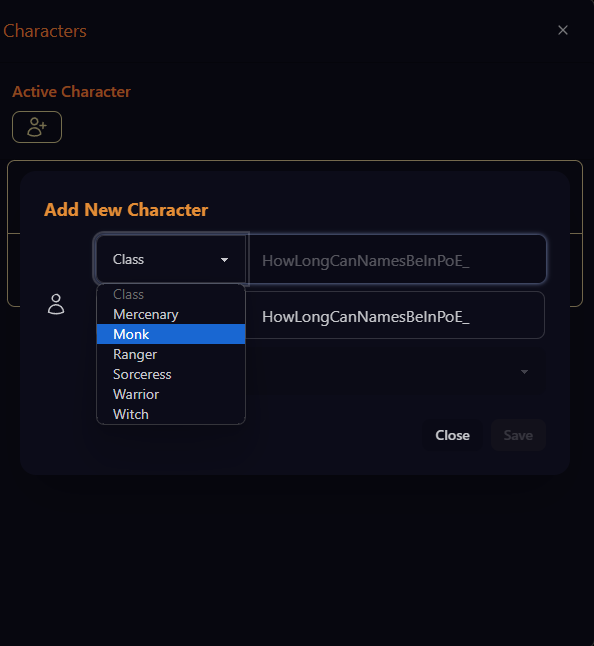
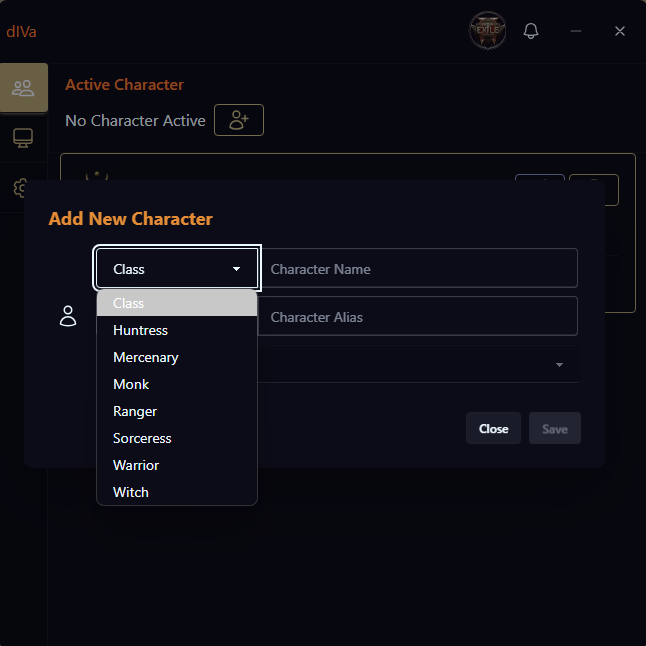
dIVa v2

diff --git a/dIVa/index.html b/dIVa/index.html
@@ -37,142 +37,34 @@
       </script>
       <div id="patch-2-0-0" class="card bg-neutral shadow-lg compact my-8 section-offset">
         <div class="card-body">
-          <h2 class="card-title text-accent text-xl sm:text-2xl">(Upcoming) dIVa v2</h2>
+          <h2 class="card-title text-accent text-xl sm:text-2xl">v2.0.0 - dIVa v2</h2>
           <div>
             <h3 class="text-secondary text-lg sm:text-xl font-semibold">Major UI Overhaul</h3>
             <ul class="list-disc list-inside ml-4 p-4 pt-2">
-              <li>Complete GUI redesign with unified single-window interface and Sidebar navigation</li>
-              <li>
-                Settings toggle "Open Features Window" option allows specific features to be opened in a separate window. Currently available for
-                Diablo IV Dungeons & Sigils
-              </li>
-              <li>Game Selector in top bar enables offline viewing and switching between different supported games</li>
+              <li>Complete GUI redesign with unified single-window interface and sidebar navigation</li>
+              <li>Settings toggle allows specific Features to open in a separate window (Diablo IV Dungeons & Sigils)</li>
+              <li>Game Selector in top bar enables offline viewing and switching between supported games</li>
             </ul>
-            <h3 class="text-secondary text-lg sm:text-xl font-semibold">Path of Exile 2 Feature</h3>
+            <h3 class="text-secondary text-lg sm:text-xl font-semibold">Path of Exile 2</h3>
             <ul class="list-disc list-inside ml-4 p-4 pt-2">
-              <li>
-                New <a href="instance-alert.html" class="text-accent underline">Instance Alert</a> feature warns when town instances are at risk of
-                expiring (8-minute threshold)
-              </li>
+              <li>New Instance Alert feature warns when town instances are at risk of expiring</li>
             </ul>
           </div>
         </div>
       </div>
-      <div id="patch-1-7-5" class="card bg-neutral shadow-lg compact my-8 section-offset">
+      <div id="v1-changelog" class="card bg-neutral shadow-lg compact my-8 section-offset">
         <div class="card-body">
-          <h2 class="card-title text-accent text-xl sm:text-2xl">v1.7.5 - Path of Exile 2 Dawn of the Hunt Update</h2>
-          <div>
-            <h3 class="text-secondary text-lg sm:text-xl font-semibold">Huntress Class</h3>
-            <ul class="list-disc list-inside ml-4 p-4 pt-2">
-              <li>The Huntress class is now supported in dIVa</li>
-            </ul>
-            <h3 class="text-secondary text-lg sm:text-xl font-semibold">Discord</h3>
-            <ul class="list-disc list-inside ml-4 p-4 pt-2">
-              <li>
-                A <a href="https://discord.gg/Kp4dNHbmcJ" class="text-accent underline">Discord</a> server is now available for dIVa users to discuss
-                and share their experiences with the app.
-              </li>
-              <li>Please feel free to report any issues, or leave suggestions!</li>
-            </ul>
-          </div>
-        </div>
-      </div>
-      <div id="patch-1-5-0" class="card bg-neutral shadow-lg compact my-8 section-offset">
-        <div class="card-body">
-          <h2 class="card-title text-accent text-xl sm:text-2xl">v1.5.0 - 한국어 & Deutsch</h2>
-          <div>
-            <h3 class="text-secondary text-lg sm:text-xl font-semibold">Expanded Language Support</h3>
-            <ul class="list-disc list-inside ml-4 p-4 pt-2">
-              <li>
-                Ich freue mich, mitteilen zu können, dass dIVa die Marke von 1.000 täglichen Nutzern überschritten hat! Als Zeichen der Wertschätzung
-                für diese unglaubliche Community erweitere ich die Sprachunterstützung und nehme Deutsch auf – eine der aktivsten Nutzergruppen in der
-                App. Vielen Dank, dass ihr Teil dieser Reise seid!
-              </li>
-              <li>
-                dIVa가 하루 1,000명 이상의 사용자를 돌파했다는 소식을 전하게 되어 정말 기쁩니다! 이 놀라운 커뮤니티에 대한 감사의 표시로, 앱에서 가장
-                활발한 사용자 그룹 중 하나인 한국어를 새롭게 지원하게 되었습니다. 이 여정에 함께해 주셔서 감사합니다!
-              </li>
-            </ul>
-          </div>
-        </div>
-      </div>
-      <div id="patch-1-4-0" class="card bg-neutral shadow-lg compact my-8 section-offset">
-        <div class="card-body">
-          <h2 class="card-title text-accent text-xl sm:text-2xl">v1.4.0 - Diablo IV: Season of Witchcraft</h2>
-          <div>
-            <h3 class="text-secondary text-lg sm:text-xl font-semibold">Season 7 Update</h3>
-            <ul class="list-disc list-inside ml-4 p-4 pt-2">
-              <li><strong>Nightmare Dungeons:</strong> 86 new Dungeons have been added to the Tier List.</li>
-            </ul>
-          </div>
-        </div>
-      </div>
-      <div id="patch-1-3-0" class="card bg-neutral shadow-lg compact my-8 section-offset">
-        <div class="card-body">
-          <h2 class="card-title text-accent text-xl sm:text-2xl">v1.3.6 - Path of Exile 2 & Themes</h2>
-          <p class="mb-2">Experience dIVa in a whole new light with our latest update!</p>
-          <div>
-            <h3 class="text-secondary text-lg sm:text-xl font-semibold">Support for Path of Exile 2 (Early Access)</h3>
-            <ul class="list-disc list-inside ml-4 p-4 pt-2">
-              <li><strong>Character Detection:</strong> Introducing a specialized class detection system for Path of Exile 2 characters.</li>
-              <li>
-                When you log in, dIVa will prompt you to select your character's class, and will remember it for future sessions, ensuring accurate
-                character tracking and analytics while Overwolf game events are in development.
-              </li>
-              <li><strong>Experience Meter Enabled:</strong> Experience Game Event is now supported in Overwolf</li>
-            </ul>
-          </div>
-          <div>
-            <h3 class="text-secondary text-lg sm:text-xl font-semibold">Theme System</h3>
-            <ul class="list-disc list-inside ml-4 p-4 pt-2">
-              <li>
-                <strong>Game-Specific Themes:</strong> Each supported game now has its own unique theme, bringing the perfect ambiance to your
-                analytics:
-                <ul class="list-disc list-inside ml-4">
-                  <li><strong>dIVa:</strong> The default theme, fiery orange and red darkness</li>
-                  <li><strong>Vessel of Hatred:</strong> Embrace the new jungle green aesthetics with our Diablo IV expansion theme</li>
-                  <li><strong>Path of Exile:</strong> Experience the gritty midnight blue atmosphere of Wraeclast</li>
-                </ul>
-              </li>
-              <li>
-                <strong>Dynamic Theme Switching:</strong> Themes automatically adjust based on your active game, or manually select your preferred
-                theme in <a href="settings.html#themes" class="text-accent underline">Settings</a>
-              </li>
-              <li><strong>Enhanced Visuals:</strong> Revamped UI elements, icons, and color schemes to match each game's unique aesthetic</li>
-            </ul>
-          </div>
-          <div>
-            <h3 class="text-secondary text-lg sm:text-xl font-semibold">Enhancements</h3>
-            <ul class="list-disc list-inside ml-4 p-4 pt-2">
-              <li><strong>Draggable Indicator on Overlays</strong></li>
-            </ul>
-          </div>
-        </div>
-      </div>
-      <div id="patch-1-0-0" class="card bg-neutral shadow-lg compact my-8 section-offset">
-        <div class="card-body">
-          <h2 class="card-title text-accent text-xl sm:text-2xl">v1.0.0 - Vessel of Hatred</h2>
-          <p class="mb-2">Explore the exciting new features in <strong>dIVa v1.0.0</strong>!</p>
-          <div>
-            <h3 class="text-secondary text-lg sm:text-xl font-semibold">Zigil Incorporation</h3>
-            <ul class="list-disc list-inside ml-4 p-4 pt-2">
-              <li>
-                <strong>Dungeons Tier List:</strong> A detailed tier list of Nightmare Dungeons, cataloged by Experience and Glyph. Helps players
-                prioritize dungeons based on experience gain and glyph upgrading potential.
-              </li>
-              <li>
-                <strong>Sigils (Inventory):</strong> A comprehensive inventory system for organizing, tracking, and optimizing your sigil collection.
-                Includes Stash, 'Best' and List views for efficient Sigil management.
-                <ul class="list-disc list-inside ml-4">
-                  <li><strong>Overlay:</strong> New in-game Overlay will show you the Best Sigil to Consume.</li>
-                </ul>
-              </li>
-              <li>
-                <strong>Notification Viewer:</strong> A centralized hub for managing all dIVa notifications, featuring search functionality,
-                individual and bulk deletion options, categorization by type, and timestamp display.
-              </li>
-            </ul>
-          </div>
+          <h2 class="card-title text-accent text-xl sm:text-2xl">v1 Changelog</h2>
+          <ul class="list-disc list-inside ml-4 p-4 pt-2">
+            <li>Game-specific Themes and dynamic Theme switching</li>
+            <li>Path of Exile 2: Class detection system, experience meter, and analytics</li>
+            <li>Discord server for user discussion and feedback</li>
+            <li>Expanded language support</li>
+            <li>Draggable indicator on overlays</li>
+            <li>Nightmare Dungeons Tier List and Sigil inventory systems</li>
+            <li>Overlay for best Sigil to consume</li>
+            <li>Notification viewer with search, categorization, and bulk actions</li>
+          </ul>
         </div>
       </div>
     </div>

diff --git a/dIVa/dungeons.html b/dIVa/dungeons.html
@@ -37,8 +37,8 @@
             <h3 class="text-secondary text-lg sm:text-xl font-semibold">Functionality</h3>
             <ul class="list-disc list-inside ml-4 p-4">
               <li><strong>Search:</strong> Quickly find specific dungeons using the search bar.</li>
-              <li><strong>Tier Type Filter:</strong> Sort dungeons by their assigned tier type (e.g. Experience, Glyph).</li>
-              <li><strong>Season Filter:</strong> View dungeons specific to the current season (e.g., Season 6 - Hatred).</li>
+              <li><strong>Tier Type Filter:</strong> Sort dungeons by their assigned tier type (e.g. Experience).</li>
+              <li><strong>Season Filter:</strong> View dungeons specific to the current season (e.g., 8 - Belial's Return).</li>
               <li><strong>Dungeon Icons:</strong> Visual representations of each dungeon for easy identification.</li>
               <li><strong>Dungeon Names:</strong> Clear labeling of each dungeon within its respective tier.</li>
             </ul>
@@ -48,13 +48,12 @@
             <p class="mb-2">Dungeons are categorized into the following tier types:</p>
             <ul class="list-disc list-inside ml-4 p-2 space-y-1">
               <li><strong>Experience:</strong> Sort Dungeons by ones that offer the most experience.</li>
-              <li><strong>Glyph:</strong> Sort Dungeons by ones that are the most efficient for upgrading glyphs.</li>
             </ul>
           </div>
           <div class="mt-4">
             <h3 class="text-secondary text-lg sm:text-xl font-semibold">Using the Dungeons Feature</h3>
             <ol class="list-decimal list-inside ml-4 p-2 space-y-2">
-              <li>Open the Dungeons window in dIVa.</li>
+              <li>Open the Dungeons window in dIVa by clicking the "Skull" icon in the sidebar.</li>
               <li>Use the search bar to find specific dungeons or browse the tier list.</li>
               <li>Click on the "Tier" dropdown to filter dungeons by their assigned tier type.</li>
               <li>Use the "Season" dropdown to view dungeons relevant to the current season.</li>

diff --git a/dIVa/sigils.html b/dIVa/sigils.html
@@ -74,10 +74,7 @@
             <img src="./images/sigils-best.png" alt="Sigils Best View" class="mb-4 mx-auto rounded-lg" />
             <p class="mb-2">The Best view focuses on optimizing your sigil inventory, showcasing the most effective sigils in your collection.</p>
             <ul class="list-disc list-inside ml-4 p-4">
-              <li>
-                <strong>Recommended Sigils:</strong> This view will only show <strong>S-Tier</strong> or <strong>A-Tier</strong> Sigils for both
-                experience and glyph.
-              </li>
+              <li><strong>Recommended Sigils:</strong> This view will only show <strong>S-Tier</strong> or <strong>A-Tier</strong></li>
             </ul>
             <h4 class="text-secondary text-md sm:text-lg font-semibold">List View</h4>
             <img src="./images/sigils-list.png" alt="Sigils List View" class="mb-4 mx-auto rounded-lg" />
@@ -101,7 +98,7 @@
             </ul>
             <h3 class="text-secondary text-lg sm:text-xl font-semibold">Using the Sigil Views</h3>
             <ol class="list-decimal list-inside ml-4 p-2 space-y-2">
-              <li>Open the Sigils window in dIVa and select either the "Stash" or "Best" tab.</li>
+              <li>Open the Sigils window by clicking the "Key" icon in the sidebar, and selecting the "Stash" or "Best" tab.</li>
               <li>Use the search bar to find specific sigils or browse the available options.</li>
               <li>Click on the "Analyze" icon to select the Tier Type to analyze Sigils for.</li>
               <li>Use the "Season" dropdown to view sigils relevant to the current season.</li>

diff --git a/dIVa/desktop.html b/dIVa/desktop.html
@@ -60,6 +60,7 @@
           <div>
             <h3 class="text-secondary text-lg sm:text-xl font-semibold">Functionality</h3>
             <ul class="list-disc list-inside ml-4 p-4">
+              <li>Game Selector in top bar enables offline viewing and switching between supported games.</li>
               <li><strong>Gold Meter:</strong> This meter can run either in-game or as part of the desktop window.</li>
               <li>
                 <strong>Experience Meter:</strong> Similar to the Gold Meter, this meter can run either in-game or as part of the desktop window.
@@ -94,8 +95,11 @@
             Currently available in:
             <ul class="list-disc list-inside ml-4 p-4 pt-0">
               <li><strong>English:</strong> Gear up and conquer Sanctuary with dIVa!</li>
+              <li><strong>German:</strong> Bereite dich und erobere den Heiligtum mit dIVa!</li>
+              <li><strong>Korean:</strong> 준비하고 성소를 정복하세요!</li>
               <li><strong>Spanish:</strong> ¡Prepárate y conquista Santuario con dIVa!</li>
               <li><strong>Portuguese:</strong> Equipe-se e conquiste o Santuário com dIVa!</li>
+              <li><strong>French:</strong> Préparez-vous et conquérez le Sanctuaire avec dIVa!</li>
             </ul>
           </div>
         </div>

diff --git a/dIVa/class-detection.html b/dIVa/class-detection.html
@@ -45,6 +45,7 @@
                 <img src="images/characters/class-selection.png" alt="Class Selection Dialog" class="my-4 mx-auto rounded-lg" />
                 A prompt will appear asking you to select your character's class from the available options:
                 <ul class="list-disc list-inside ml-8">
+                  <li>Huntress</li>
                   <li>Mercenary</li>
                   <li>Monk</li>
                   <li>Ranger</li>

diff --git a/dIVa/settings.html b/dIVa/settings.html
@@ -74,6 +74,7 @@
                     <li>한국어</li>
                     <li>Español</li>
                     <li>Português</li>
+                    <li>Français</li>
                   </ul>
                 </p>
               </li>

diff --git a/README.md b/README.md
@@ -1,46 +1,50 @@
 ## Tutorials for MYLA Products
 
-# dIVa 
+# dIVa
 
 A dynamic interface with visual analytics, dIVa elevates your aRPG journey with real-time statistics and intelligent overlays, Speed Leveling, and more! Supports PoE2, D4 and D2R
 
 [Tutorial](https://myla-llc.github.io/tutorials/dIVa/index.html)
 
-*Designed for true enthusiasts, **dIVa** is your ultimate aRPG analytics companion. Discover the most resource-efficient gameplay strategies across multiple games with in-game overlays that provide real-time updates on Gold, Experience, and Speed Leveling. Maximize your efficiency in every gaming session with **dIVa**!*
+_Designed for true enthusiasts, **dIVa** is your ultimate aRPG analytics companion. Discover the most resource-efficient gameplay strategies across multiple games with in-game overlays that provide real-time updates on Gold, Experience, and Speed Leveling. Maximize your efficiency in every gaming session with **dIVa**!_
 
 ### Supported Games
+
 - Path of Exile 2 (Early Access)
 - Diablo IV (including Vessel of Hatred expansion)
 - Diablo II: Resurrected
 
 dIVa supports multiple languages, allowing you to enjoy the full experience in your preferred language!
+
 - English
 - Deutsch
 - 한국어
 - Español
 - Português
+- Français
 
-## (Latest Features) Path of Exile 2: Dawn of the Hunt Update
-The Huntress class is now supported in dIVa
+## (Latest Features) dIVa v2
+
+- Complete GUI redesign with unified single-window interface and sidebar navigation
+- Settings toggle allows specific Features to open in a separate window (Diablo IV Dungeons & Sigils)
+- Game Selector in top bar enables offline viewing and switching between supported games
+- New Instance Alert feature for Path of Exile 2
 
 ### Discord
+
 A <a href="https://discord.gg/Kp4dNHbmcJ" class="text-accent underline">Discord</a> server is now available for dIVa users to discuss and share their experiences with the app.
 Please feel free to report any issues, or leave suggestions!
 
-### Expanded Language Support
-I'm thrilled to share that dIVa has surpassed 1,000 daily users!
-As a token of appreciation for this incredible community, I'm expanding the language support to include German and Korean — two of the most active user groups in the app.
-Thank you for being part of this journey!
+### Diablo IV: Belial's Return
 
+Updated Dungeon data for Season 8
 
-### Diablo IV: Season of Witchcraft Update
-Updated Dungeon data for Season 7
-
-### Path of Exile 2 (Early Access)
+### Path of Exile 2 (Dawn of the Hunt)
 
 - **Character Detection:** Introducing a specialized class detection system for Path of Exile 2 characters.
 - When you log in, dIVa will prompt you to select your character's class, and will remember it for future sessions, ensuring accurate character tracking and analytics while Overwolf game events are in development.
 - **Experience Meter Enabled:** Experience Game Event is now supported in Overwolf
+- **Instance Alert:** Timer for alerting when instances are at risk of expiring during town visits. Available as a Desktop element, or an in-game overlay.
 
 ### Theme System
 
